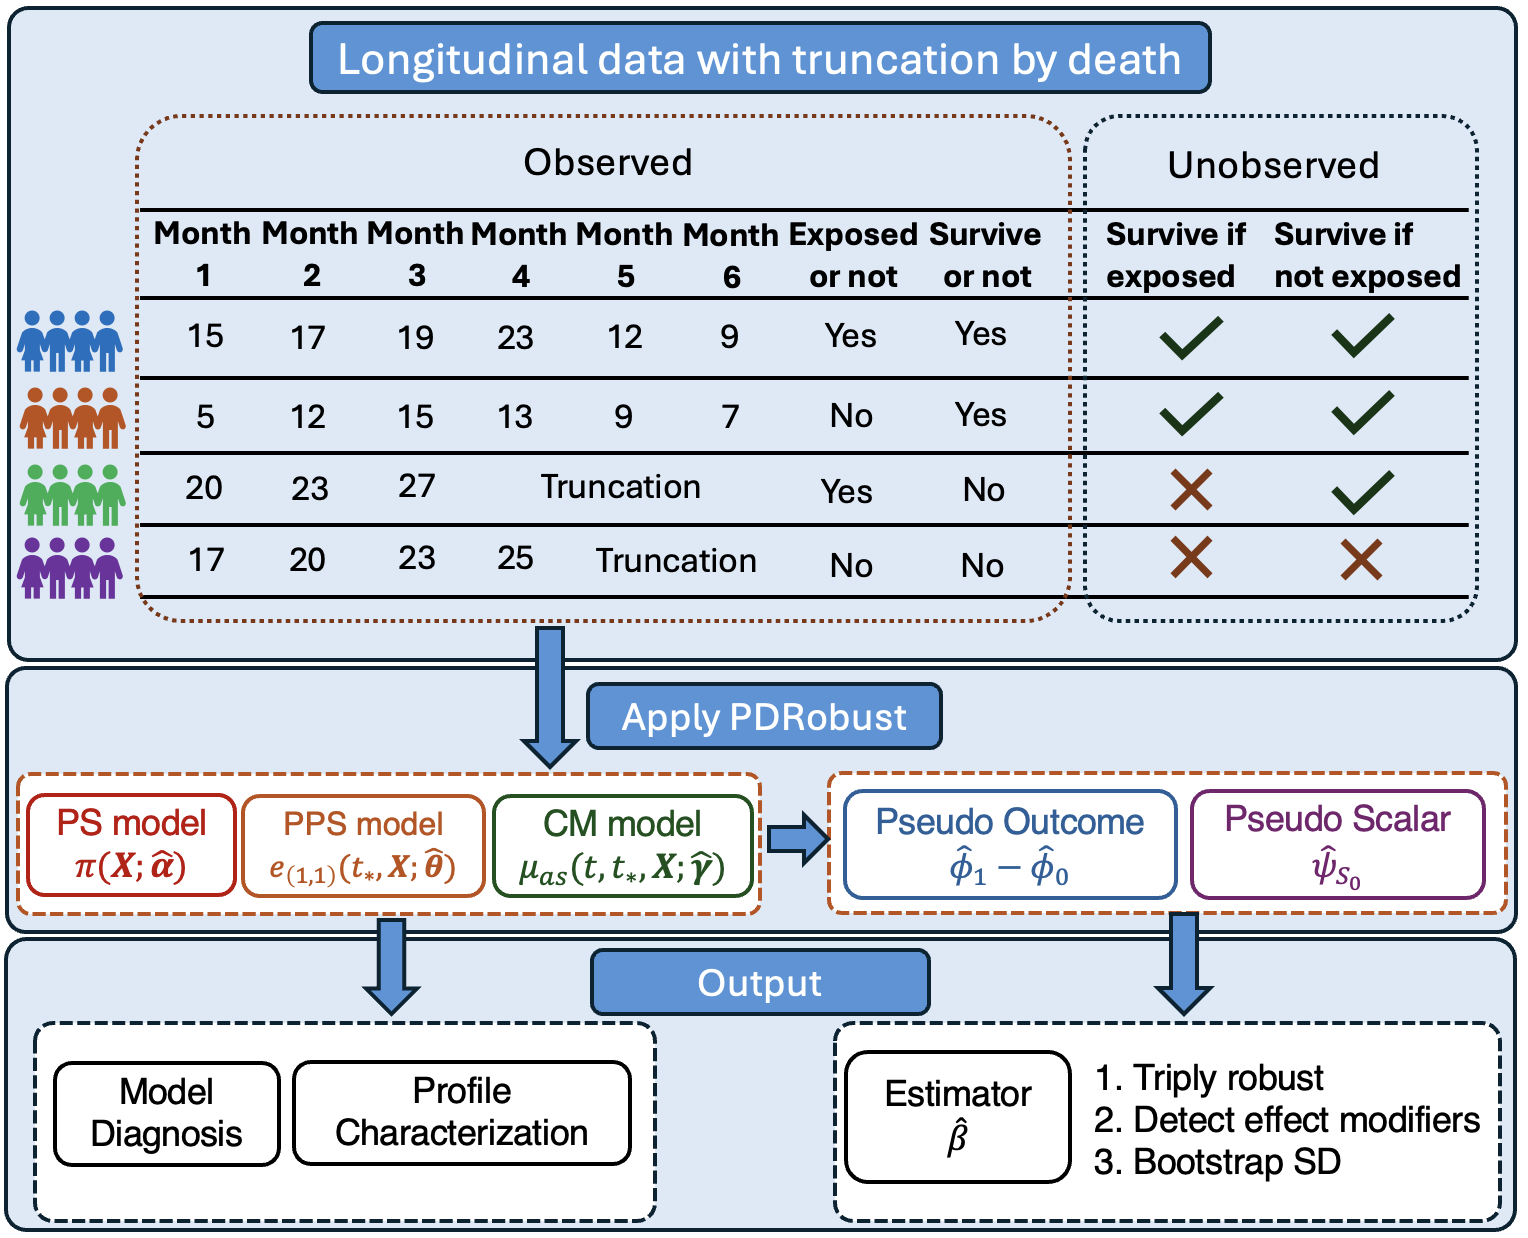
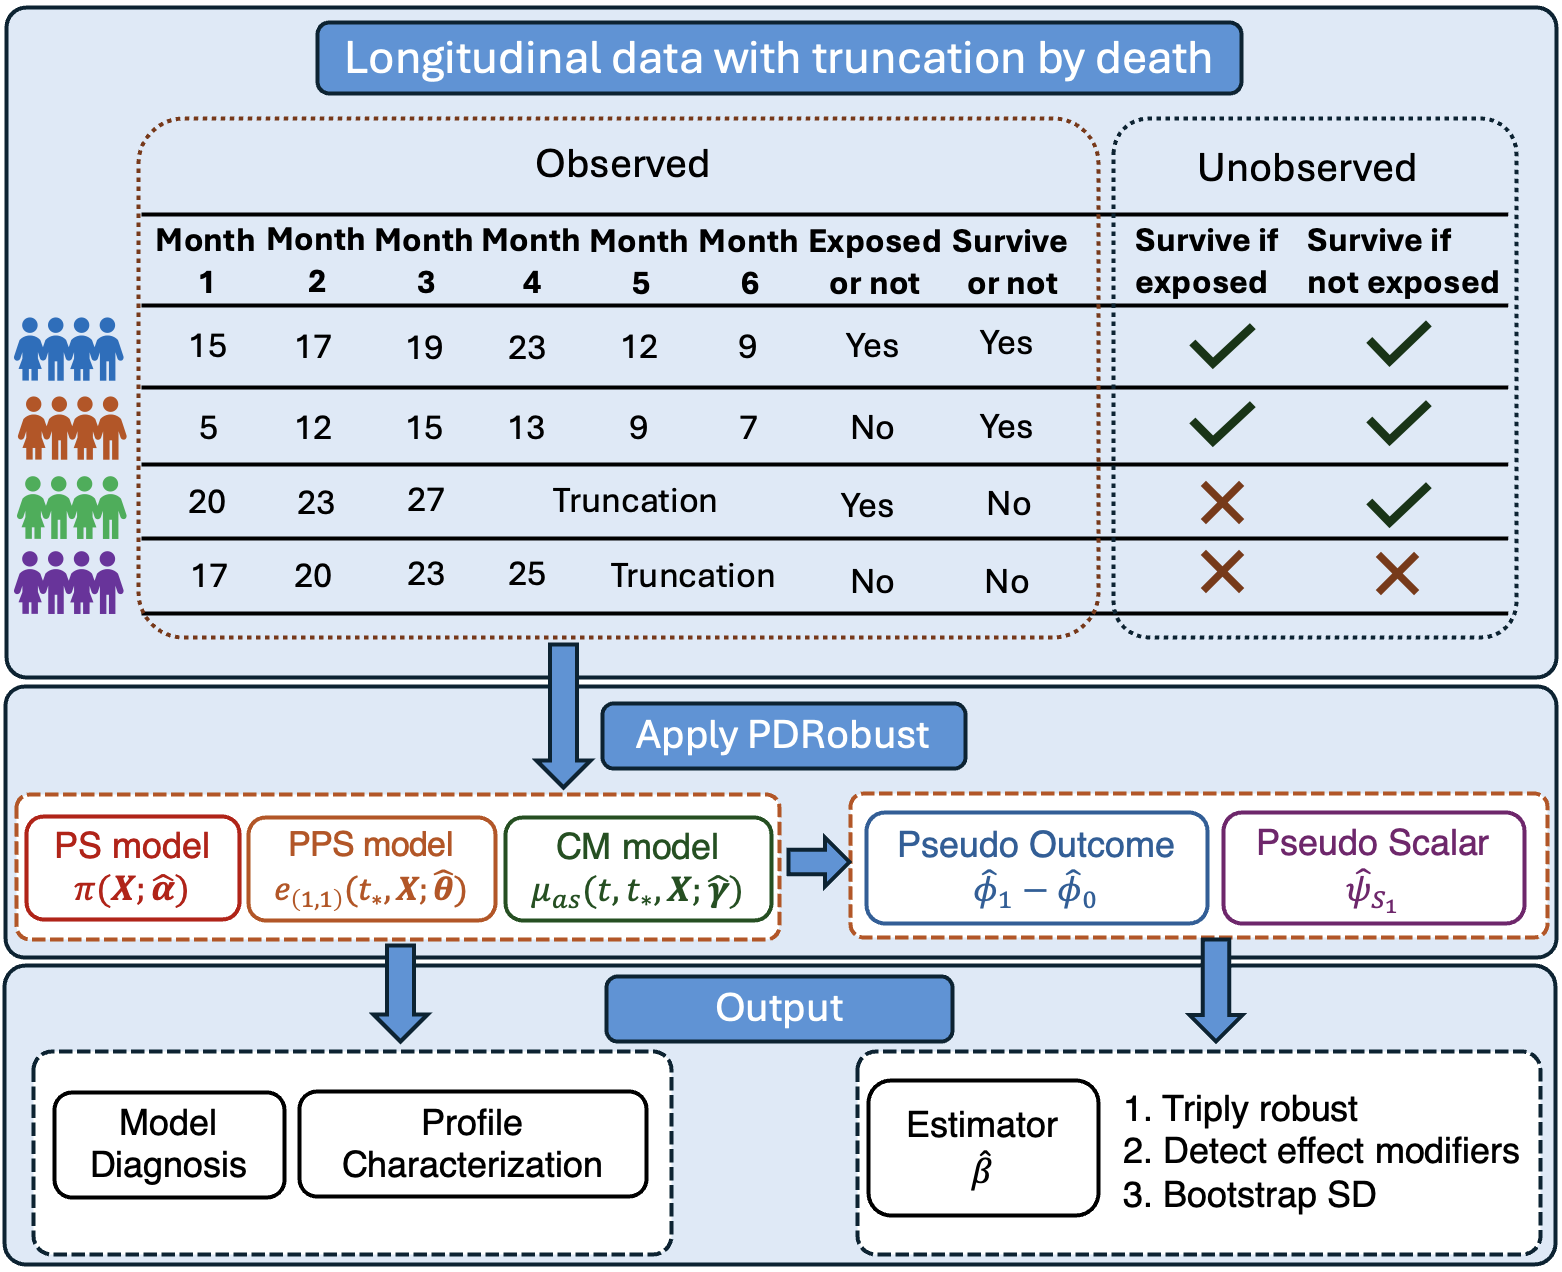
readme

diff --git a/README.md b/README.md
@@ -1,7 +1,10 @@
 
 # PDRobust: Longitudinal treatment effects under truncation by death
 
-![PDRobust analysis workflow](man/figures/fcfigure.png)
+<figure>
+<img src="man/figures/fcfigure.png" alt="PDRobust analysis workflow" />
+<figcaption aria-hidden="true">PDRobust analysis workflow</figcaption>
+</figure>
 
 <!-- badges: start -->
 
@@ -17,9 +20,9 @@ However, when investigating the trajectory of the Heterogeneous
 Treatment Effect (HTE) of an exposure/intervention, traditional methods
 cannot sufficiently address challenges inherent to the data, including
 
-1.  the presence of truncation by death, and
+1)  the presence of truncation by death, and
 
-2.  the characterization of the unobserved principal stratum of patients
+2)  the characterization of the unobserved principal stratum of patients
     who would survive till the specific time point regardless of the
     exposure occurrence.
 
@@ -229,21 +232,21 @@ separate_hte$forest_plot
 The following table summarizes the objectives and arguments of all
 functions provided by the package.
 
-| Function and arguments                                                                                           | Objectives and returned results                                                                                                                                              |
-|:-----------------------------------------------------------------------------------------------------------------|:-----------------------------------------------------------------------------------------------------------------------------------------------------------------------------|
-| `Mapping(id, time, treatment, survival, outcome, baseline_time, cutoff_time, covariates, interest_vars, y_type)` | Defines the structural roles of variables, analysis times, covariates, effect modifiers, and outcome type.                                                                   |
-| `DataCheck(data, mapping, strict = FALSE)`                                                                       | Evaluates data readiness and returns dataset-level validation flags, itemized checks, diagnostic details, and recommended handling.                                          |
-| `DataStandard(data, mapping, drop = FALSE)`                                                                      | Returns a standardized and sorted longitudinal data frame with attached mapping and audit attributes.                                                                        |
-| `PSPred(ps_fo, fit_dat, pred_dat, mapping, ...)`                                                                 | Returns row-aligned propensity score predictions.                                                                                                                            |
-| `PrinPred(prin_fo, fit_dat, pred_dat, a, mapping, ...)`                                                          | Returns row-aligned cumulative principal score predictions under treatment level `a`.                                                                                        |
-| `OutPred(out_fo, fit_dat, pred_dat, a, mapping, ...)`                                                            | Returns row-aligned potential-outcome predictions under treatment level `a`.                                                                                                 |
-| `PSDiag(data, ps_fo)`                                                                                            | Computes standardized mean differences for covariate-balance assessment of the fitted propensity score model; Returns the numeric results and corresponding diagnostic plot. |
-| `PrinSDiag(data, ps_fo, prin_fo)`                                                                                | Computes standardized test statistics for covariate-level assessment of the fitted principal score model; Returns the numeric results the corresponding diagnostic plot.     |
-| `SA(data, ps_fo, prin_fo, out_fo, ratiovec = c(0, 0.05, 0.10))`                                                  | Perturbs outcomes with random noise and returns estimates and plots across noise levels.                                                                                     |
-| `QR(data, prin_fo, quantile_level = 0.5)`                                                                        | Returns principal-score-weighted means and quantiles of mapped effect modifiers as numeric summaries and a tidy table.                                                       |
-| `ORCI(data, formula, a, conf_level = 0.95)`                                                                      | Returns model-based survival odds ratios at cutoff within treatment group `a`, confidence intervals, and a plot.                                                             |
-| `HTESepT(data, ps_fo, prin_fo, out_fo, target_time, B, conf_level = 0.95, max_attempts = NULL, verbose = TRUE)`  | Returns time-specific heterogeneous treatment effect estimates, bootstrap results, and forest plots for the specified analysis times.                                        |
-| `HTEAllT(data, ps_fo, prin_fo, out_fo, B, conf_level = 0.95, max_attempts = NULL, verbose = TRUE)`               | Returns pooled heterogeneous treatment effect estimates across analysis times, bootstrap results, and a forest plot.                                                         |
+| Function and arguments | Objectives and returned results |
+|:---|:---|
+| `Mapping(id, time, treatment, survival, outcome, baseline_time, cutoff_time, covariates, interest_vars, y_type)` | Defines the structural roles of variables, analysis times, covariates, effect modifiers, and outcome type. |
+| `DataCheck(data, mapping, strict = FALSE)` | Evaluates data readiness and returns dataset-level validation flags, itemized checks, diagnostic details, and recommended handling. |
+| `DataStandard(data, mapping, drop = FALSE)` | Returns a standardized and sorted longitudinal data frame with attached mapping and audit attributes. |
+| `PSPred(ps_fo, fit_dat, pred_dat, mapping, ...)` | Returns row-aligned propensity score predictions. |
+| `PrinPred(prin_fo, fit_dat, pred_dat, a, mapping, ...)` | Returns row-aligned cumulative principal score predictions under treatment level `a`. |
+| `OutPred(out_fo, fit_dat, pred_dat, a, mapping, ...)` | Returns row-aligned potential-outcome predictions under treatment level `a`. |
+| `PSDiag(data, ps_fo)` | Computes standardized mean differences for covariate-balance assessment of the fitted propensity score model; Returns the numeric results and corresponding diagnostic plot. |
+| `PrinSDiag(data, ps_fo, prin_fo)` | Computes standardized test statistics for covariate-level assessment of the fitted principal score model; Returns the numeric results the corresponding diagnostic plot. |
+| `SA(data, ps_fo, prin_fo, out_fo, ratiovec = c(0, 0.05, 0.10))` | Perturbs outcomes with random noise and returns estimates and plots across noise levels. |
+| `QR(data, prin_fo, quantile_level = 0.5)` | Returns principal-score-weighted means and quantiles of mapped effect modifiers as numeric summaries and a tidy table. |
+| `ORCI(data, formula, a, conf_level = 0.95)` | Returns model-based survival odds ratios at cutoff within treatment group `a`, confidence intervals, and a plot. |
+| `HTESepT(data, ps_fo, prin_fo, out_fo, target_time, B, conf_level = 0.95, max_attempts = NULL, verbose = TRUE)` | Returns time-specific heterogeneous treatment effect estimates, bootstrap results, and forest plots for the specified analysis times. |
+| `HTEAllT(data, ps_fo, prin_fo, out_fo, B, conf_level = 0.95, max_attempts = NULL, verbose = TRUE)` | Returns pooled heterogeneous treatment effect estimates across analysis times, bootstrap results, and a forest plot. |
 
 **More tutorials available on
 [tutorials](https://whhuan.github.io/PD_Robust/).**
